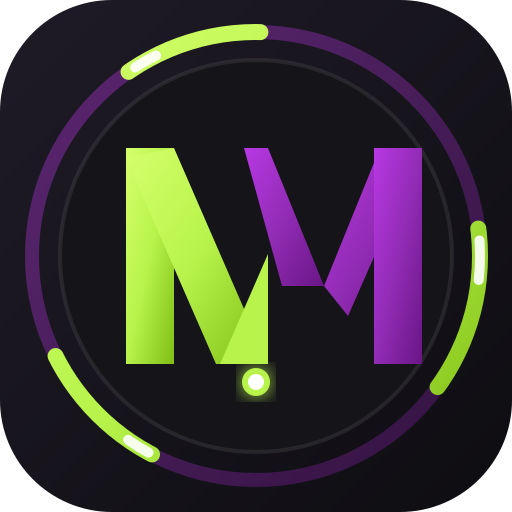
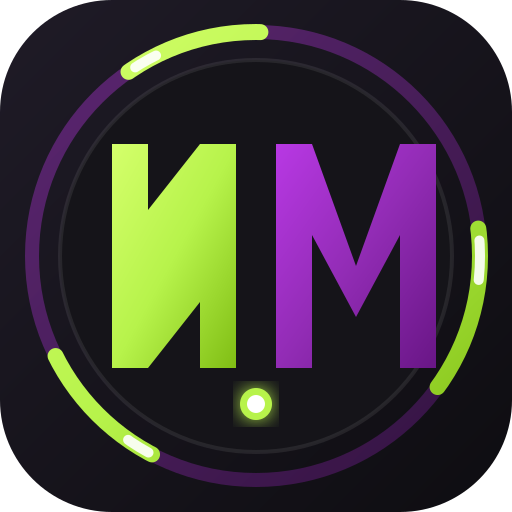
feat: update branding and visual assets
- Redesign NM monogram for improved clarity
- Update site metadata with alternate names
- Refine logo responsiveness and header layout

Changed region(s): [[0.2188, 0.2812, 0.875, 0.8438]]

diff --git a/src/components/Logo.tsx b/src/components/Logo.tsx
@@ -12,16 +12,16 @@ export const Logo: React.FC<LogoProps> = ({
   showText = true,
 }) => {
   const sizeMap = {
-    sm: { box: 'w-8 h-8', font: 'text-base', sub: 'text-[9px]' },
-    md: { box: 'w-10 h-10', font: 'text-xl', sub: 'text-[10px]' },
-    lg: { box: 'w-14 h-14', font: 'text-2xl', sub: 'text-xs' },
+    sm: { box: 'w-7 h-7 sm:w-8 sm:h-8', font: 'text-sm sm:text-base', sub: 'text-[8px] sm:text-[9px]' },
+    md: { box: 'w-8 h-8 xs:w-9 xs:h-9 sm:w-10 sm:h-10', font: 'text-base xs:text-lg sm:text-xl', sub: 'text-[8px] xs:text-[9px] sm:text-[10px]' },
+    lg: { box: 'w-12 h-12 sm:w-14 sm:h-14', font: 'text-xl sm:text-2xl', sub: 'text-[10px] sm:text-xs' },
   };
 
   const currentSize = sizeMap[size];
 
   return (
-    <div className={`flex items-center gap-3 ${className}`}>
-      {/* Distinctive Circular Angular NZ-inspired SVG Logo */}
+    <div className={`flex items-center gap-2 sm:gap-3 shrink-0 ${className}`}>
+      {/* High-Precision Geometric NM Emblem */}
       <div className={`relative ${currentSize.box} shrink-0 group`}>
         <svg
           viewBox="0 0 100 100"
@@ -42,55 +42,56 @@ export const Logo: React.FC<LogoProps> = ({
             </linearGradient>
           </defs>
 
-          {/* Outer Ring with cyber glow */}
+          {/* Deep Dark Shield Background */}
+          <rect width="100" height="100" rx="22" fill="#151419" />
+
+          {/* Outer Cyber Tech Ring */}
           <circle
             cx="50"
             cy="50"
             r="44"
             stroke="url(#nmPurpleGrad)"
-            strokeWidth="3"
+            strokeWidth="2.5"
             className="opacity-40"
           />
 
-          {/* Angular Tech Corner Accents */}
+          {/* Precision Lime Ring Segments */}
           <circle
             cx="50"
             cy="50"
             r="44"
             stroke="url(#nmLimeGrad)"
-            strokeWidth="3.5"
+            strokeWidth="3"
             strokeLinecap="round"
             strokeDasharray="28 64"
           />
 
-          {/* Inner Dark Shield */}
-          <circle cx="50" cy="50" r="38" fill="#151419" stroke="rgba(255,255,255,0.1)" strokeWidth="1" />
+          {/* Inner Stage Shield */}
+          <circle cx="50" cy="50" r="38" fill="#1b1920" stroke="rgba(255,255,255,0.08)" strokeWidth="1" />
 
-          {/* MONOGRAM: Bold, High-Clarity Interlocking NM */}
-          {/* N Left Stem */}
-          <path d="M 25 71 L 25 29 L 34 29 L 34 71 Z" fill="url(#nmLimeGrad)" />
-          {/* N Diagonal */}
-          <path d="M 34 29 L 52 71 L 42 71 L 25 31 Z" fill="url(#nmLimeGrad)" />
-          {/* N Joint / M Left Joint */}
-          <path d="M 43 71 L 52 50 L 52 71 Z" fill="#b7f34b" />
+          {/* MONOGRAM: Seamless Geometric NM Monogram (No overlapping artifacts) */}
+          {/* Letter 'N' (Cyber Lime) */}
+          <path
+            d="M 22 28 L 29 28 L 29 44 L 39 28 L 46 28 L 46 72 L 39 72 L 39 56 L 29 72 L 22 72 Z"
+            fill="url(#nmLimeGrad)"
+          />
 
-          {/* M Left Wing Diagonal */}
-          <path d="M 52 29 L 63 56 L 55 56 L 47 29 Z" fill="url(#nmPurpleGrad)" />
-          {/* M Right Wing Diagonal */}
-          <path d="M 63 56 L 74 29 L 82 29 L 68 62 Z" fill="url(#nmPurpleGrad)" />
-          {/* M Right Stem */}
-          <path d="M 73 29 L 82 29 L 82 71 L 73 71 Z" fill="url(#nmPurpleGrad)" />
+          {/* Letter 'M' (Royal Purple) */}
+          <path
+            d="M 54 72 L 54 28 L 61 28 L 66 52 L 71 28 L 78 28 L 78 72 L 71 72 L 71 46 L 66 62 L 61 46 L 61 72 Z"
+            fill="url(#nmPurpleGrad)"
+          />
 
-          {/* Central Tech Precision Core Jewel */}
-          <circle cx="50" cy="74.5" r="3" fill="#b7f34b" />
-          <circle cx="50" cy="74.5" r="1.5" fill="#ffffff" />
+          {/* Central Tech Precision Jewel */}
+          <circle cx="50" cy="79" r="3" fill="#b7f34b" />
+          <circle cx="50" cy="79" r="1.5" fill="#ffffff" />
         </svg>
       </div>
 
       {/* Typography */}
       {showText && (
-        <div className="flex flex-col select-none">
-          <div className="flex items-center gap-1.5 leading-none">
+        <div className="flex flex-col select-none whitespace-nowrap min-w-0">
+          <div className="flex items-center gap-1 sm:gap-1.5 leading-none">
             <span className={`font-black tracking-wider uppercase text-slate-900 dark:text-white ${currentSize.font}`}>
               NASIR
             </span>
@@ -98,7 +99,7 @@ export const Logo: React.FC<LogoProps> = ({
               MOBILE
             </span>
           </div>
-          <div className="flex items-center gap-2 mt-0.5">
+          <div className="flex items-center gap-1.5 sm:gap-2 mt-0.5">
             <span className={`tracking-widest font-semibold uppercase text-slate-500 dark:text-zinc-400 ${currentSize.sub}`}>
               DUBAI • UAE
             </span>

diff --git a/scripts/generate-favicons.ts b/scripts/generate-favicons.ts
@@ -40,26 +40,16 @@ const logoSvg = `<svg xmlns="http://www.w3.org/2000/svg" viewBox="0 0 512 512" w
   <circle cx="256" cy="256" r="196" fill="#151419" stroke="rgba(255,255,255,0.08)" stroke-width="4" />
 
   <!-- MONOGRAM: Bold, High-Clarity Interlocking "NM" (Nasir Mobile) -->
-  <g id="monogram" transform="translate(0, 0)">
-    <!-- Letter 'N' (Left & Diagonal) -->
-    <!-- N Left Stem -->
-    <path d="M 126 364 L 126 148 L 174 148 L 174 364 Z" fill="url(#limeGrad)" />
-    <!-- N Diagonal -->
-    <path d="M 174 148 L 268 364 L 216 364 L 126 158 Z" fill="url(#limeGrad)" />
-    <!-- N Right Stem / M Left Joint -->
-    <path d="M 220 364 L 268 254 L 268 364 Z" fill="#b7f34b" />
+  <g id="monogram">
+    <!-- Letter 'N' (Cyber Lime) -->
+    <path d="M 112 144 L 148 144 L 148 210 L 200 144 L 236 144 L 236 368 L 200 368 L 200 302 L 148 368 L 112 368 Z" fill="url(#limeGrad)" />
 
-    <!-- Letter 'M' (Right & Diagonal Valley) -->
-    <!-- M Left Wing Diagonal -->
-    <path d="M 268 148 L 324 286 L 282 286 L 244 148 Z" fill="url(#purpleGrad)" />
-    <!-- M Right Wing Diagonal -->
-    <path d="M 324 286 L 380 148 L 422 148 L 348 316 Z" fill="url(#purpleGrad)" />
-    <!-- M Right Stem -->
-    <path d="M 374 148 L 422 148 L 422 364 L 374 364 Z" fill="url(#purpleGrad)" />
+    <!-- Letter 'M' (Royal Purple) -->
+    <path d="M 276 368 L 276 144 L 312 144 L 356 266 L 400 144 L 436 144 L 436 368 L 400 368 L 400 235 L 356 317 L 312 235 L 312 368 Z" fill="url(#purpleGrad)" />
 
     <!-- Central Tech Precision Core Jewel -->
-    <circle cx="256" cy="382" r="14" fill="#b7f34b" filter="url(#glow)" />
-    <circle cx="256" cy="382" r="8" fill="#ffffff" />
+    <circle cx="256" cy="404" r="16" fill="#b7f34b" filter="url(#glow)" />
+    <circle cx="256" cy="404" r="9" fill="#ffffff" />
   </g>
 </svg>`;
 
@@ -92,20 +82,18 @@ const ogImageSvg = `<svg xmlns="http://www.w3.org/2000/svg" viewBox="0 0 1200 63
   <path d="M 0 100 L 1200 100 M 0 200 L 1200 200 M 0 300 L 1200 300 M 0 400 L 1200 400 M 0 500 L 1200 500" stroke="rgba(255,255,255,0.03)" stroke-width="1" />
   <path d="M 200 0 L 200 630 M 400 0 L 400 630 M 600 0 L 600 630 M 800 0 L 800 630 M 1000 0 L 1000 630" stroke="rgba(255,255,255,0.03)" stroke-width="1" />
 
-  <!-- Brand Emblem on Left (Scaled 512->280) -->
-  <g transform="translate(90, 160)">
-    <rect width="310" height="310" rx="68" fill="#16141c" stroke="rgba(255,255,255,0.12)" stroke-width="2" />
-    <circle cx="155" cy="155" r="132" fill="none" stroke="url(#ogPurple)" stroke-width="8" opacity="0.4" />
-    <circle cx="155" cy="155" r="132" fill="none" stroke="url(#ogLime)" stroke-width="10" stroke-dasharray="80 200" stroke-linecap="round" />
+  <!-- Brand Emblem on Left (Scaled 512->310) -->
+  <g transform="translate(90, 160) scale(0.60546875)">
+    <rect width="512" height="512" rx="112" fill="#151419" stroke="rgba(255,255,255,0.12)" stroke-width="3" />
+    <circle cx="256" cy="256" r="224" fill="none" stroke="url(#ogPurple)" stroke-width="14" opacity="0.4" />
+    <circle cx="256" cy="256" r="224" fill="none" stroke="url(#ogLime)" stroke-width="16" stroke-dasharray="140 320" stroke-linecap="round" />
+    <circle cx="256" cy="256" r="196" fill="#151419" />
     
     <!-- Monogram NM -->
-    <path d="M 76 220 L 76 90 L 106 90 L 106 220 Z" fill="url(#ogLime)" />
-    <path d="M 106 90 L 164 220 L 132 220 L 76 96 Z" fill="url(#ogLime)" />
-    <path d="M 134 220 L 164 154 L 164 220 Z" fill="#b7f34b" />
-    <path d="M 164 90 L 198 172 L 174 172 L 150 90 Z" fill="url(#ogPurple)" />
-    <path d="M 198 172 L 232 90 L 258 90 L 212 192 Z" fill="url(#ogPurple)" />
-    <path d="M 228 90 L 258 90 L 258 220 L 228 220 Z" fill="url(#ogPurple)" />
-    <circle cx="155" cy="232" r="8" fill="#b7f34b" />
+    <path d="M 112 144 L 148 144 L 148 210 L 200 144 L 236 144 L 236 368 L 200 368 L 200 302 L 148 368 L 112 368 Z" fill="url(#ogLime)" />
+    <path d="M 276 368 L 276 144 L 312 144 L 356 266 L 400 144 L 436 144 L 436 368 L 400 368 L 400 235 L 356 317 L 312 235 L 312 368 Z" fill="url(#ogPurple)" />
+    <circle cx="256" cy="404" r="16" fill="#b7f34b" />
+    <circle cx="256" cy="404" r="9" fill="#ffffff" />
   </g>
 
   <!-- Typography & Text on Right -->

diff --git a/src/components/Header.tsx b/src/components/Header.tsx
@@ -75,10 +75,10 @@ export const Header: React.FC<HeaderProps> = ({
       )}
 
       {/* Main Header Bar */}
-      <div className="max-w-7xl mx-auto px-4 sm:px-6 lg:px-8">
-        <div className="flex items-center justify-between h-20 gap-4">
+      <div className="max-w-7xl mx-auto px-3 sm:px-6 lg:px-8">
+        <div className="flex items-center justify-between h-16 sm:h-20 gap-2 sm:gap-4">
           {/* Logo & Brand (Triple-click provides secret owner access) */}
-          <div onClick={handleLogoClick} className="flex items-center cursor-pointer select-none">
+          <div onClick={handleLogoClick} className="flex items-center cursor-pointer select-none shrink-0 min-w-0">
             <Logo size="md" />
           </div>
 

diff --git a/index.html b/index.html
@@ -77,6 +77,12 @@
           "@id": "https://www.nasirmobile.com/#website",
           "url": "https://www.nasirmobile.com",
           "name": "Nasir Mobile Dubai",
+          "alternateName": [
+            "Nasir Mobile",
+            "Nasir Mobiles",
+            "nasirmobile.com",
+            "ناصر موبايل دبي"
+          ],
           "description": "Authorized retailer of original smartphones, luxury smartwatches, laptops, and certified accessories with full Dubai warranty.",
           "inLanguage": ["en-US", "ar-AE"],
           "potentialAction": {
